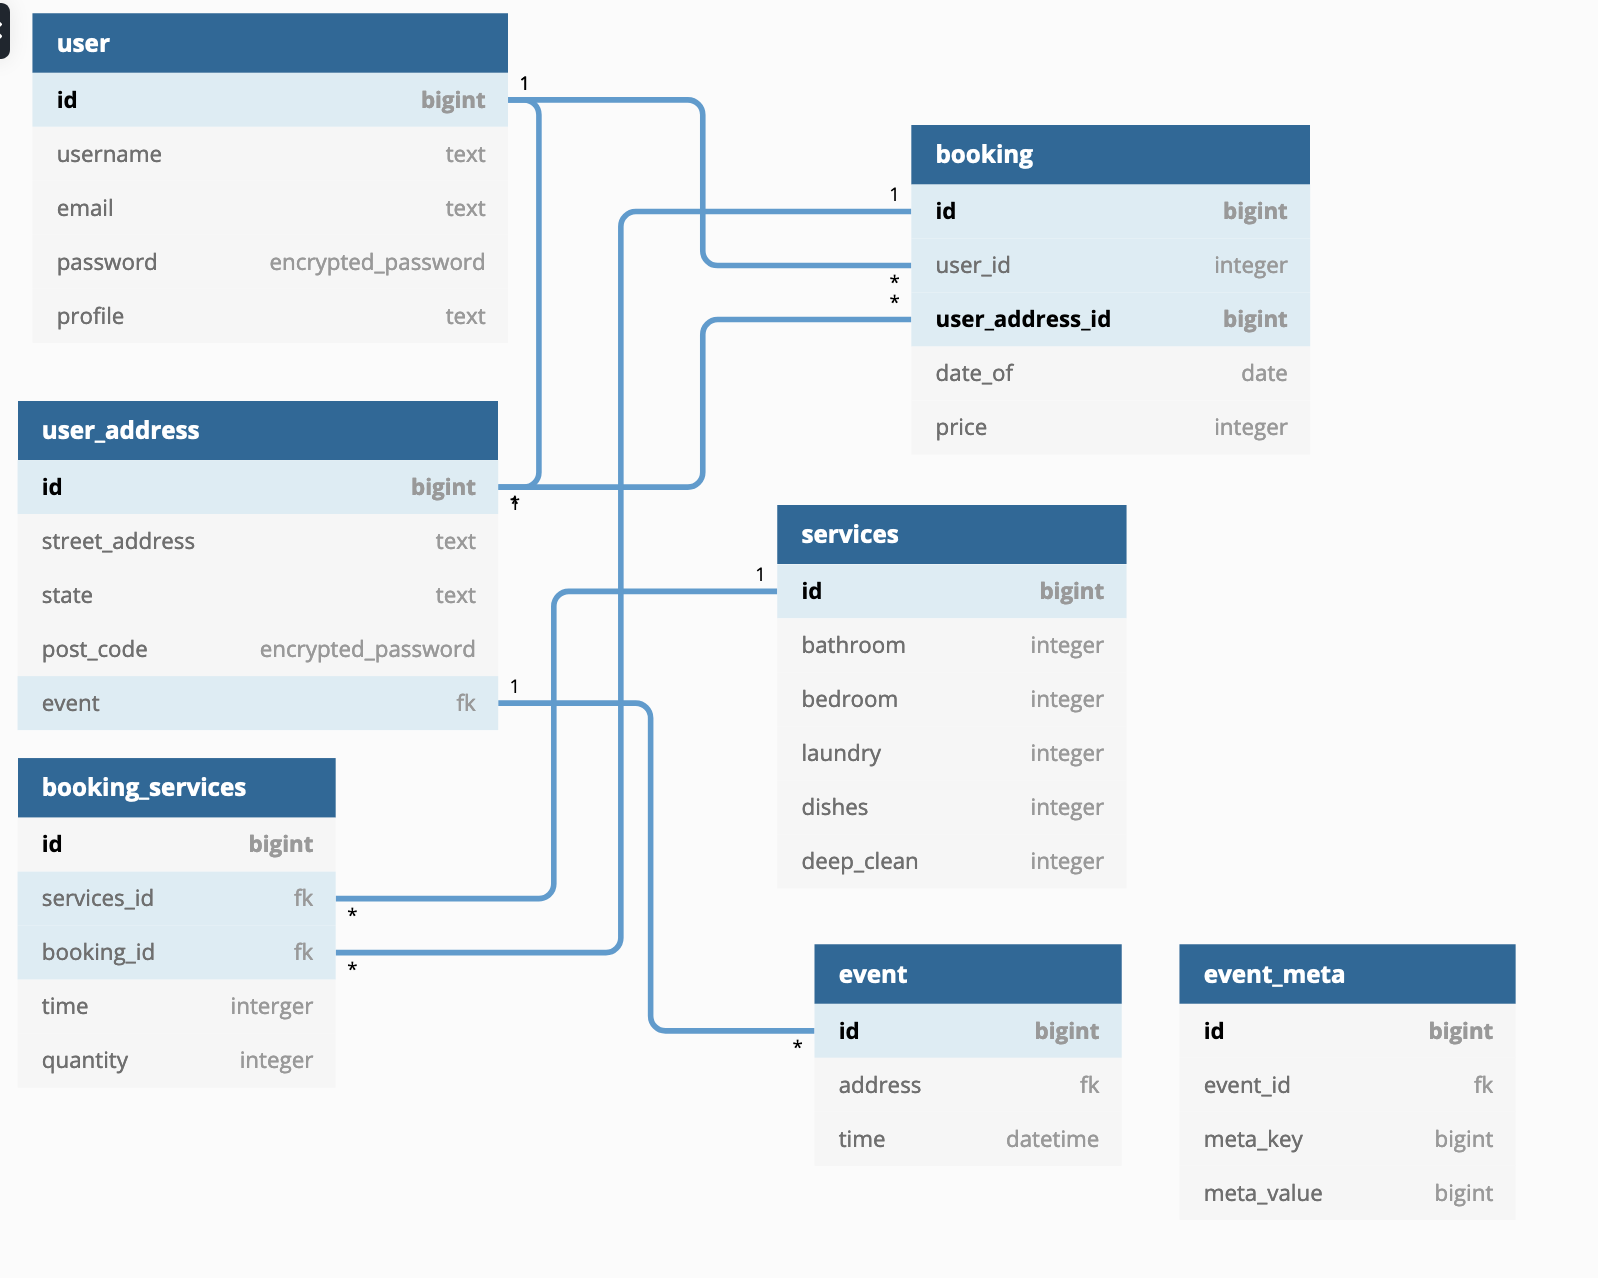
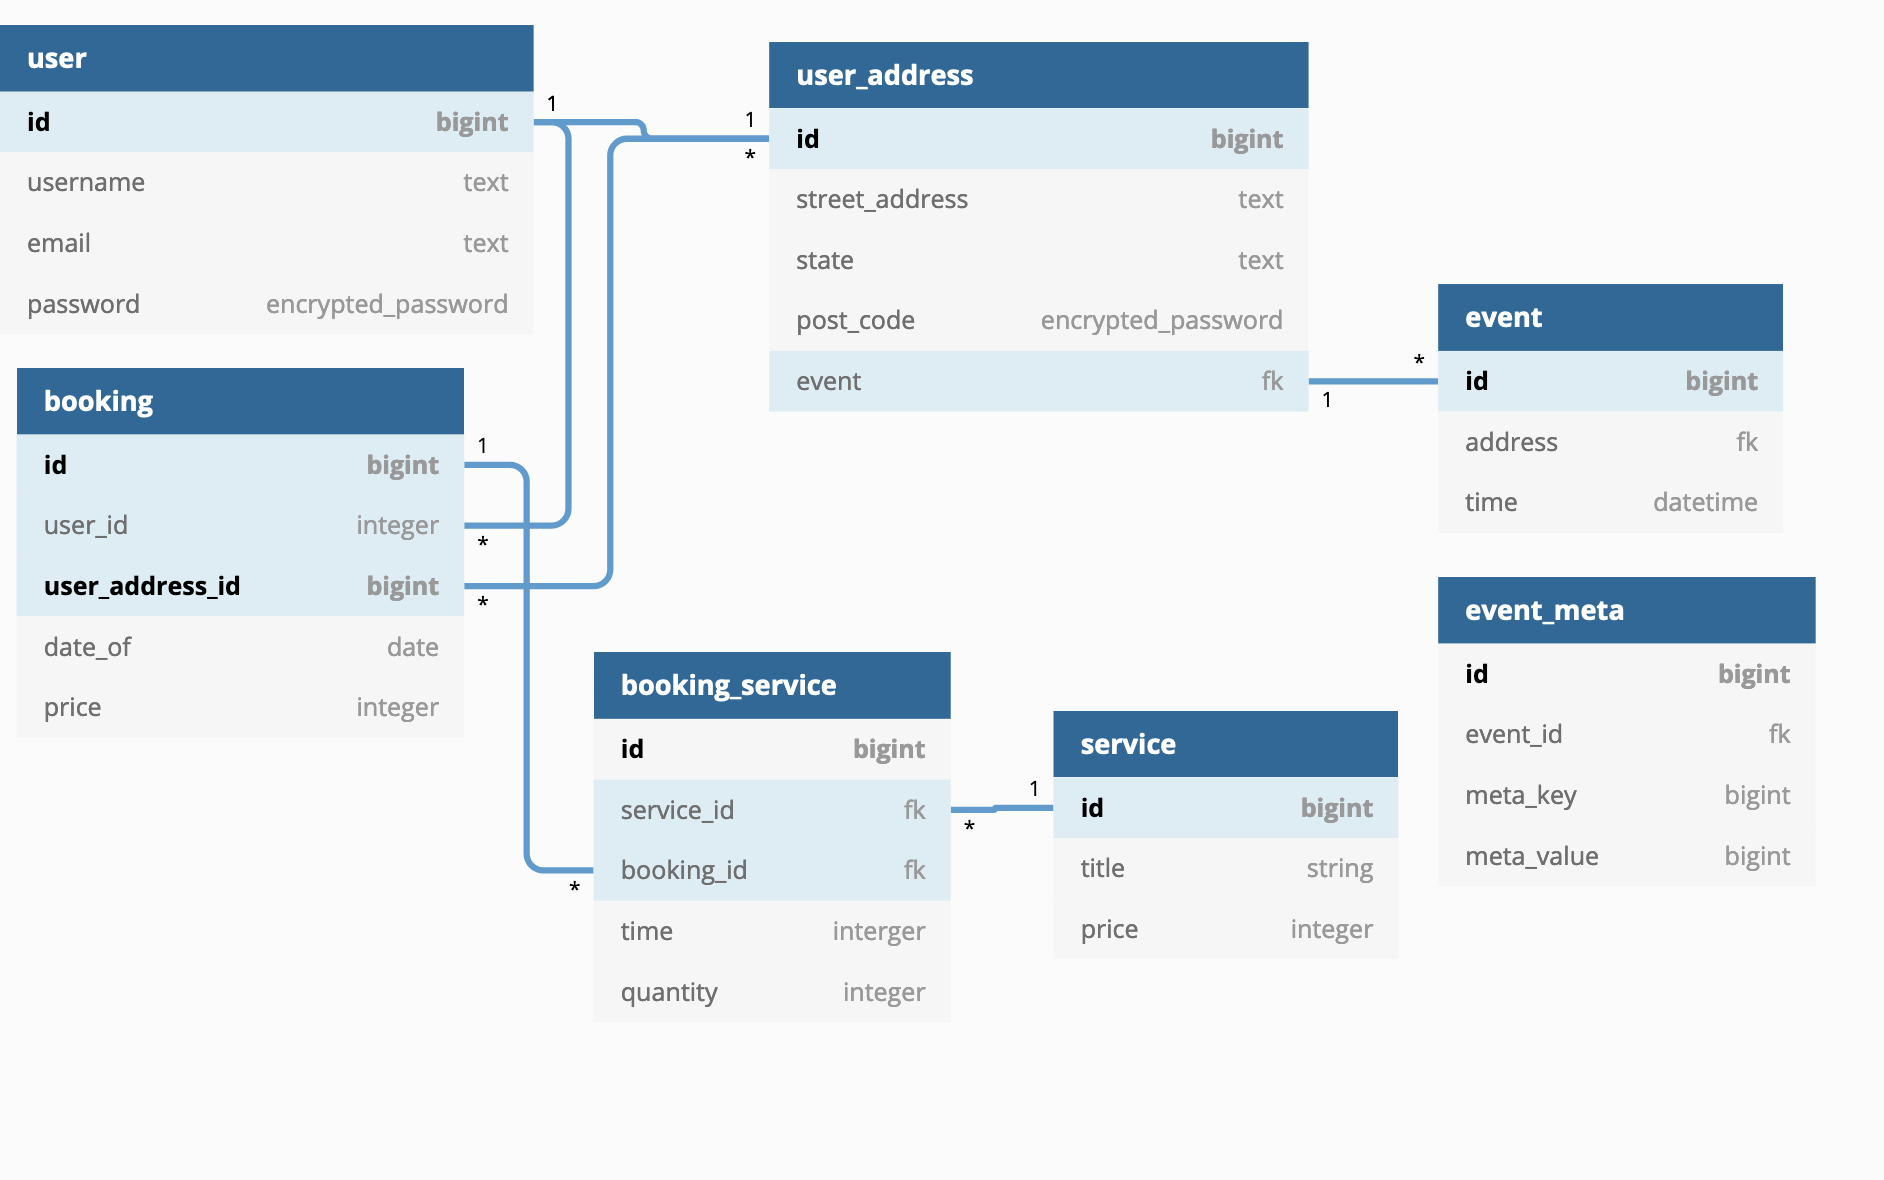
revised erd for service table singularized table names as per convention and changed service table

diff --git a/README.md b/README.md
@@ -92,7 +92,7 @@ The target audience for our clients app can be described as "Anybody that lives 
 
  
 
-**** 
+****
 
 **Other**
 
@@ -261,8 +261,7 @@ Table user {
   username text
   email text
   password encrypted_password
-  profile text
-  
+
 }
 
 Table user_address {
@@ -274,20 +273,17 @@ Table user_address {
   
 }
 
-Table booking_services {
+Table booking_service {
 id bigint pk
-  services_id fk
+  service_id fk
   booking_id fk
   time interger
   quantity integer
 }
-Table services {
+Table service {
 id bigint pk
-  bathroom integer
-  bedroom integer
-  laundry integer
-  dishes integer
-  deep_clean integer
+ title string
+ price integer
 }
 Table booking {
 
@@ -312,15 +308,17 @@ Table event {
 }
 
 
+
+
 Ref: "user"."id" < "user_address"."id"
 
 Ref: "user_address"."id" < "booking"."user_address_id"
 
 Ref: "user"."id" < "booking"."user_id"
 
-Ref: "booking_services"."services_id" > "services"."id"
+Ref: "booking_service"."service_id" > "service"."id"
 
-Ref: "booking"."id" < "booking_services"."booking_id"
+Ref: "booking"."id" < "booking_service"."booking_id"
 
 Ref: "user_address"."event" < "event"."id"
 ```
